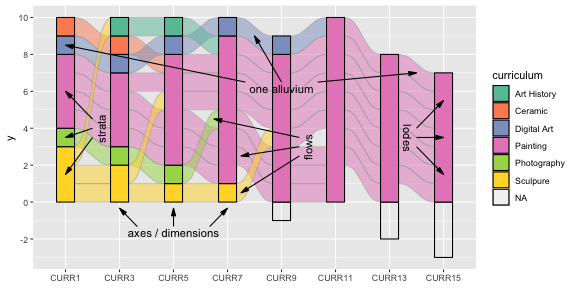
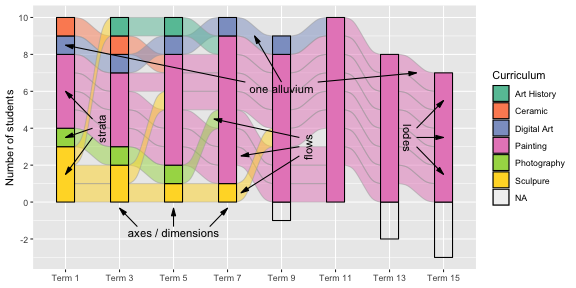
clarify labels in joss paper figure

diff --git a/paper.md b/paper.md
@@ -48,7 +48,7 @@ Second, ggalluvial adopts a distinctive geological nomenclature to distinguish "
 Figure \ref{fig:example} illustrates these and other plot elements by visualizing changes in several students' curricula (based on their declared majors) across several academic terms.
 Each axis corresponds to an odd-valued term (1 through 15), at which the students are grouped into strata according to their curricula---Art History, Ceramic, etc. The individual students can be tracked from term to term along their alluvia: for instance, one student started out in Digital Art, encoded by the blue ribbon, but had switched to Painting by the 11th term, where the ribbon turns pink. The partially transparent flows are colored according to their originating (not their terminating) terms, and the lodes where they intersect the strata are obscured by the solid-colored strata themselves. When a student's curriculum is unknown, they are grouped into the "missing" (`NA`) stratum, which is weighted negatively in this example.
 
-![\label{fig:example}Alluvial plot of changes in curricula in a student cohort](paper/figure-1.png)
+![\label{fig:example}Alluvial plot of changes in curricula by a cohort of art students](paper/figure-1.png)
 
 Plot layers are formed by pairing stats (statistical transformations) with geoms (mappings to graphical elements and properties); while every stat and geom has a conventional default, alternative grammatical pairings provide combinatorial richness to plotting possibilities. In the above example, the alluvium geom was paired with the flow stat, so that the flows of each alluvium could change color across the axes.
 Other meaningful stat--geom combinations can be found in the documentation, including pairings of the three alluvial stats (stratum, alluvium, and flow) with the text, errorbar, and pointrange geoms.
